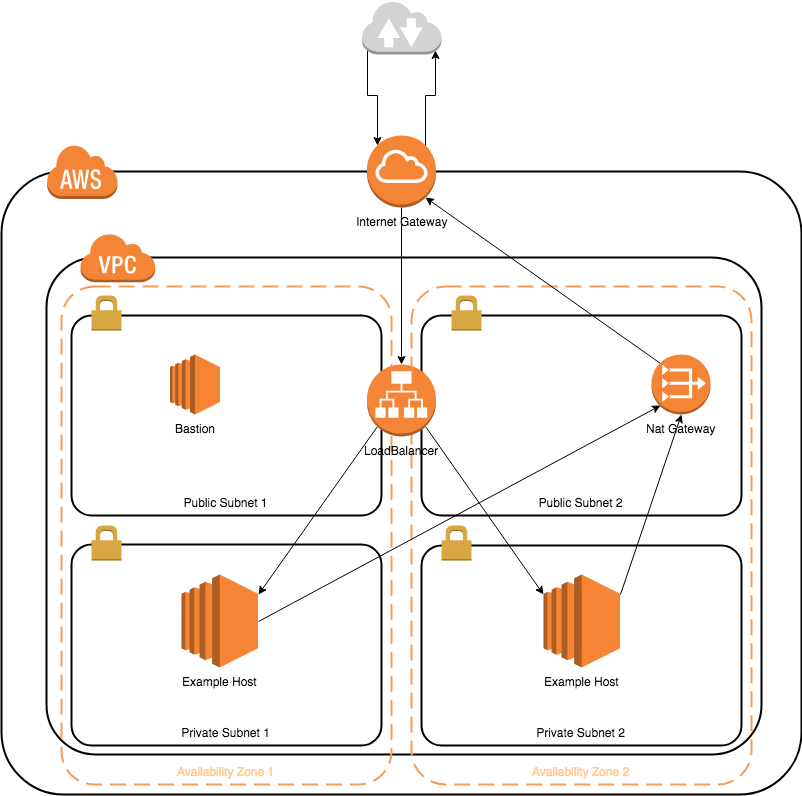
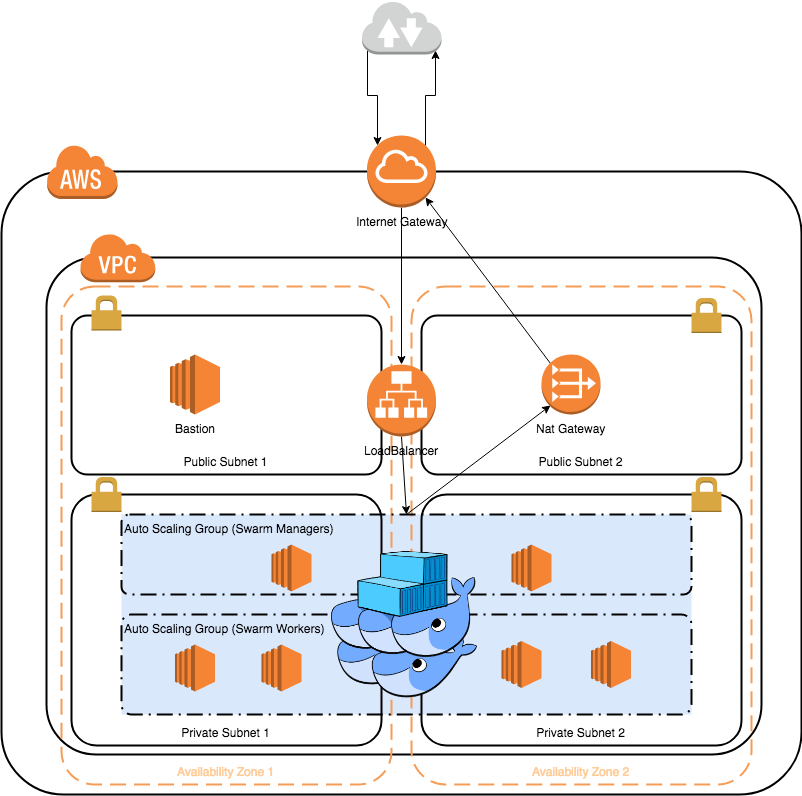
Fixed README to adjust to Dokcer deployment

diff --git a/README.md b/README.md
@@ -53,23 +53,67 @@ aws_cli_profile = "your-profile"
 ```
 
 Initialize terraform
-```
+```sh
 $ terraform init
 ```
 
 If everything is correct the following command should output an execution plan
-```
+```sh
 $ terraform plan
 ```
 
-To create the infraestructure
-```
+### First apply - Swarm Initialization
+
+Execute the infrastructure
+```sh
 $ terraform apply
 ```
 
-To reverse everything
+If everything goes right, you should found one instace called `Swarm Manager` in the EC2 dashboard.
+This instance will be the Swarm Manager Leader, and after a few moments it should be ready to accept
+new nodes.
+
+### Second apply - Configure AutoScalingGroups
+
+Connect to the instance (trough the Bastion Host) and verify that the Swarm is initialized
+
+```sh
+$ docker node ls
+
+ID                            HOSTNAME                STATUS              AVAILABILITY        MANAGER STATUS      ENGINE VERSION
+zwqenokj41vl3oho7ulv3d2bp *   example-hostname        Ready               Active              Leader              18.09.1
 ```
-$ terraform destroy
+
+Still inside the instance, get the Manager command
+```sh
+$ docker swarm join-token manager
+
+To add a manager to this swarm, run the following command:
+
+    docker swarm join --token SWMTKN-1-3h7hxv9sf9arjkk1np1uz37pwmpyts7jndktfrscycl3h4k98z-examplemanagertoken 10.0.1.123:2377
+```
+
+And get the Worker command
+```sh
+$ docker swarm join-token worker
+
+To add a worker to this swarm, run the following command:
+
+    docker swarm join --token SWMTKN-1-3h7hxv9sf9arjkk1np1uz37pwmpyts7jndktfrscycl3h4k98z-exampleworkertoken 10.0.1.123:2377
+```
+
+Copy both commands and add them in the `variables.tf` file, in the `swarm_managers_user_data` and
+`swarm_workers_user_data`
+
+Next, go to the `ec2_instances.tf` file. Go to the block `resource "aws_launch_template" "swarm_managers"`,
+and change the `user_data` key from `"${base64encode("${var.swarm_managers_init_user_data}")}"` to
+`"${base64encode("${var.swarm_managers_user_data}")}"`. Finally, uncomment the two commented blocks
+in the end of the file.
+
+After all this changes are done, apply the infrastructure once again
+
+```sh
+$ terraform apply
 ```
 
 ## Testing your deployment
@@ -87,39 +131,11 @@ Outputs:
   alb_dns_name = some.dns.name
 ```
 
-To test the infrastructure, connect through the bastion host into the EC2 instances in the private
-network and deploy any service that responds in the port 80. With the RancherOS instances you could
-run an [echo server](https://hub.docker.com/r/inanimate/echo-server)
+Connect to that address in a browser and you should see the [Swarmpit](https://swarmpit.io/). Log
+in with `admin/admin` and you shoul see information about your nodes.
 
-```
-$ docker run -d -p 80:8080 inanimate/echo-server
-```
+If you want to bring down the infraestructure
 
-Once that is done make an HTTP request to the Load Balancer Address. The response should be something
-similar to this
-```
-$ curl some.dns.name
-
-Welcome to echo-server!  Here's what I know.
-  > Head to /ws for interactive websocket echo!
-
--> My hostname is: echo-server-4282639374-6bvzg
-
--> My Pod Name is: echo-server-4282639374-6bvzg
--> My Pod Namespace is: playground
--> My Pod IP is: 10.2.1.30
-
--> Requesting IP: 10.2.2.0:40974
-
--> TLS Connection Info |
-
-  &{Version:771 HandshakeComplete:true DidResume:false CipherSuite:52392 NegotiatedProtocol:h2 NegotiatedProtocolIsMutual:true ServerName:echo.arroyo.io PeerCertificates:[] VerifiedChains:[] SignedCertificateTimestamps:[] OCSPResponse:[] TLSUnique:[208 42 212 243 141 165 4 35 226 40 176 84]}
-
--> Request Headers |
-
-  HTTP/1.1 GET /
-
-  Host: example.com
-  Accept-Encoding: gzip, d
-  ....
+```sh
+terraform destroy
 ```
